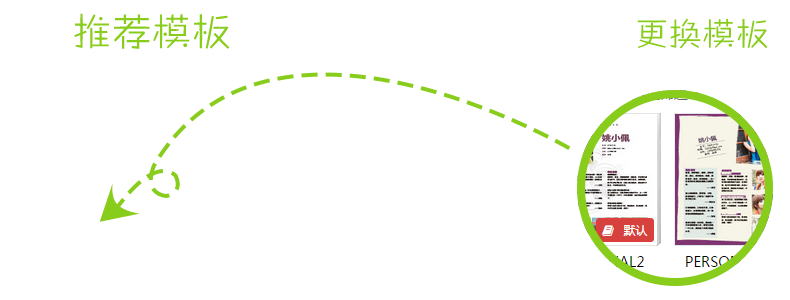
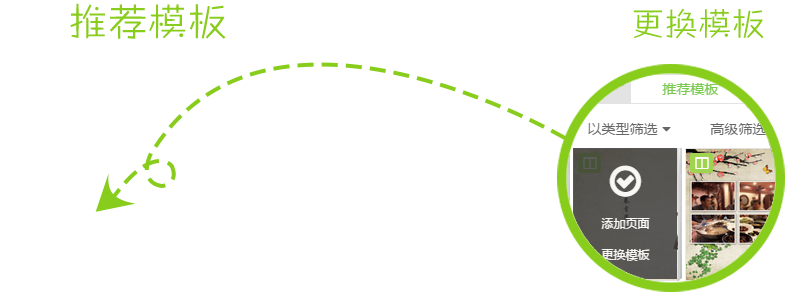
modify guide of change tpl tips

diff --git a/src/m/bp_main3.9.html b/src/m/bp_main3.9.html
@@ -22,118 +22,15 @@
 </head>
 
 <body>
-<div class='main_container bp_con_h'><!--竖屏class:bp_con_v has_footer_nav，横屏class:bp_con_h-->
-    <div class="bp_tpl_v">
+<div class='main_container bp_con_v'><!--竖屏class:bp_con_v has_footer_nav，横屏class:bp_con_h-->
+    <div class="bp_tpl">
         <div class="ybwechatheader_wrapper">
             <a class='left_btn back_btn' href="javascript:;"></a>
-            <p class="tips">提示：将手机横屏可进行全屏预览</p>
+            <p>
+                <span class="tips">提示：将手机横屏可进行全屏预览</span>
+                <span class="cur_page">1/33</span>
+            </p>
             <a class='right_btn share_btn' href="javascript:;"></a>
-        </div>
-        <div class="flipbook-viewport">
-            <div class='flipbook_wrapper' pagecount='19'>
-                <a class='flipbook_prevpage_btn' href="javascript:;"></a>
-
-                <div class='flipbook'>
-                    <div depth="5" class="hard" style="background-image:url('../img/pages/1.jpg');">
-                        <link href="http://yb-test-book.qiniudn.com/pageTpl/IMAGE_TEXT/37/css/small_left.css"
-                              rel="stylesheet" type="text/css">
-                        <div class="container_activity_37_small_left">
-                            <div class="page_header_container">
-                                <div slottype="article" class="warp1">
-                                    <div class="richShow" slottype="articleShow" textheight="40">
-                                        <div class="main_title" slottype="richText" slotnum="0">
-                                            雄关为头越
-                                        </div>
-                                    </div>
-                                </div>
-                            </div>
-                            <div class="photo0_container">
-                                <span id="imgMask0" imgwidth="1324" imgheight="907" slotnum="0" slottype="mask"
-                                      class="photoframe_common_property photoframe0"></span>
-                                <img slottype="img" slotnum="0" class="img0" src="">
-                            </div>
-                            <div class="photo1_container">
-                                <span id="imgMask1" imgwidth="498" imgheight="334" slotnum="1" slottype="mask"
-                                      class="photoframe_common_property photoframe1"></span>
-                                <img slottype="img" slotnum="1" class="img1" src="">
-                            </div>
-                            <div class="photo2_container">
-                                <span id="imgMask2" imgwidth="389" imgheight="261" slotnum="2" slottype="mask"
-                                      class="photoframe_common_property photoframe2"></span>
-                                <img slottype="img" slotnum="2" class="img2" src="">
-                            </div>
-                            <div class="content_container">
-                                <strong>
-                                    <div slottype="article" class="warp2">
-                                        <div class="richShow" slottype="articleShow" textheight="30">
-                                            <p></p>
-
-                                            <p slottype="richText" slotnum="2" style="min-height:30px;"
-                                               placeholder="活动标题" mode="inline"></p>
-
-                                            <p></p>
-                                        </div>
-                                    </div>
-                                </strong>
-
-                                <div slottype="article" class="warp3">
-                                    <div class="richShow" slottype="articleShow" textheight="96">
-                                        <p slottype="richText" slotnum="3" style="display:block;word-wrap:break-word;"
-                                           placeholder="活动内容"></p>
-                                    </div>
-                                </div>
-                            </div>
-                        </div>
-                    </div>
-                    <div depth="5" class="hard front-side secondcover even"
-                         style="background-image:url('../img/pages/2.jpg');">
-                        <span class="depth"></span>
-                        <link href="http://yb-test-book.qiniudn.com/pageTpl/PANO/2/css/small_left.css" rel="stylesheet"
-                              type="text/css">
-                        <div class="container_panoramic_02_small_left">
-                            <div slottype="article" class="warp">
-                                <div slottype="articleShow" textheight="62" class="richShow">
-                                    <p placeholder="学校班级.." slottype="richText" slotnum="4" mode="inline"
-                                       class="graduate-po">
-                                    </p>
-                                </div>
-                            </div>
-                            <span id="imgMask1" imgwidth="3120" imgheight="1700" slotnum="1" slottype="mask"
-                                  class="photoframe1"
-                                  style="text-align:center;vertical-align:middle;display: block;"></span>
-                            <img slottype="img" slotnum="1" src="" class="img1">
-                        </div>
-                    </div>
-                    <div class="hard fixed back-side thirdcover p19"
-                         style="background-image:url('../img/pages/tpl_small.jpg')">
-                        <span class="depth"></span>
-                        <link href="http://yb-test-book.qiniudn.com/pageTpl/PANO/2/css/small_right.css" rel="stylesheet"
-                              type="text/css">
-                        <div class="container_panoramic_02_small_right">
-                            <div slottype="article" class="warp">
-                                <div slottype="articleShow" textheight="62" class="richShow">
-                                    <p placeholder="学校班级.." slottype="richText" slotnum="4" mode="inline"
-                                       class="graduate-po">
-                                    </p>
-                                </div>
-                            </div>
-                            <span id="imgMask1" imgwidth="3120" imgheight="1700" slotnum="1" slottype="mask"
-                                  class="photoframe1"
-                                  style="text-align:center;vertical-align:middle;display: block;"></span>
-                            <img slottype="img" slotnum="1" src="" class="img1">
-                        </div>
-                    </div>
-                    <div class="hard p20" style="background-image:url('../img/pages/tpl_small.jpg')"></div>
-                </div>
-                <a class='flipbook_nextpage_btn' href="javascript:;"></a>
-            </div>
-        </div>
-    </div>
-    <div class="bp_tpl_h">
-        <div class="ybwechatheader_wrapper">
-            <a class='left_btn back_btn' href="javascript:;"></a>
-            <p><span>1/33</span></p>
-            <a class='right_btn' href="javascript:;">我要制作</a>
         </div>
         <div class="flipbook-viewport">
             <div class='flipbook_wrapper' pagecount='19'>
@@ -635,9 +532,9 @@
 
     window.addEventListener("orientationchange", function() {
         if(window.orientation){
-            $('.main_container').removeClass('bp_con_v','has_footer_nav').addClass('bp_con_h');
+            $('.main_container').removeClass('bp_con_v has_footer_nav').addClass('bp_con_h');
         }else{
-            $('.main_container').addClass('bp_con_v','has_footer_nav').removeClass('bp_con_h');
+            $('.main_container').addClass('bp_con_v has_footer_nav').removeClass('bp_con_h');
         }
     }, false);
 

diff --git a/src/css/m_bookpreview.css b/src/css/m_bookpreview.css
@@ -98,6 +98,7 @@
 /*~~~~~~~~~~yb 3.9 preview book~~~~~~~~~~*/
 .bp_con_v {
     position: relative;
+    padding-bottom: 70px;
 }
 
 .bp_con_v .ybwechatheader_wrapper {
@@ -111,37 +112,21 @@
     line-height: 48px;
 }
 
-.bp_tpl_v {
-    display: none;
-    position: relative;
-    top: 0;
-    left: 0;
-    width: 100%;
-    min-height: 263px;
-    background: url("../img/m/previewbook/pb_bg3-9.jpg") no-repeat center;
-    background-size: cover;
-    overflow: hidden;
-}
-
-.bp_con_v .bp_tpl_v{
-    display: block;
-}
-
-.bp_tpl_v .flipbook-viewport {
+.flipbook-viewport {
     margin: 10px auto 30px;
     width: 280px;
     height: 198px;
     overflow: visible;
 }
 
-.bp_tpl_v .flipbook_wrapper {
+.flipbook_wrapper {
     margin: 2% 0 0 0;
     height: 100%;
     position: relative;
     z-index: 1;
 }
 
-.bp_tpl_v .flipbook_wrapper > a {
+.flipbook_wrapper > a {
     display: block;
     width: 30px;
     height: 60px;
@@ -168,7 +153,7 @@
     background-size: 100% 100%;
 }
 
-.bp_tpl_v .flipbook-viewport .page > div, .bp_tpl .flipbook-viewport .page > div {
+.flipbook-viewport .page > div, .flipbook-viewport .page > div {
     -ms-zoom: 0.206;
     -webkit-transform: scale(0.206);
     -webkit-transform-origin: top left;
@@ -195,75 +180,6 @@
     background-color: #000;
     z-index: 2;
 }
-
-.bp_tpl_h {
-    display: none;
-    position: absolute;
-    top: 0;
-    left: 0;
-    width: 100%;
-    height: 100%;
-    background: url("../img/m/previewbook/pb_bg3-9.jpg") no-repeat center;
-    background-size: cover;
-    overflow: hidden;
-}
-
-.bp_con_h .bp_tpl_h{
-    display: block;
-}
-
-
-
-.bp_tpl_h .flipbook-viewport {
-    margin: 0 auto;
-    width: 280px;
-    height: 100%;
-    overflow: visible;
-}
-
-.bp_tpl_h .flipbook_wrapper {
-    margin: 0;
-    height: 100%;
-    position: relative;
-    z-index: 1;
-}
-
-.bp_tpl_h .flipbook_wrapper > a {
-    display: block;
-    width: 30px;
-    height: 60px;
-    background: rgba(255, 255, 255, .4) url("../img/m/previewbook/pb_lrarrow.png") no-repeat;
-    position: absolute;
-    top: 50%;
-    margin-top: -30px;
-    z-index: 1;
-}
-
-.flipbook-viewport .flipbook {
-    left: 0 !important;
-    overflow: hidden;
-}
-
-.flipbook_wrapper .flipbook .page-wrapper {
-    perspective: 3500px;
-    -webkit-perspective: 3500px;
-    -moz-perspective: 3500px;
-}
-
-.flipbook-viewport .page {
-    background-repeat: no-repeat;
-    background-size: 100% 100%;
-}
-
-.bp_tpl_h .flipbook-viewport .page > div{
-    -ms-zoom: 0.206;
-    -webkit-transform: scale(0.206);
-    -webkit-transform-origin: top left;
-    -moz-transform: scale(0.206);
-    -moz-transform-origin: top left;
-}
-
-
 
 .vsub {
     display: none;

diff --git a/src/makebook_chaptermake.html b/src/makebook_chaptermake.html
@@ -1034,6 +1034,12 @@
 				<div class="dash">
 					<div class="dash_92c153"></div>
 				</div>-->
+                <div class="ptpl_switch">
+                    <ul>
+                        <li><a id="used_ptpl_btn" href="javascript:;" class="active">已使用模板</a></li>
+                        <li><a id="recommend_ptpl_btn" class="" href="javascript:;">推荐模板</a></li>
+                    </ul>
+                </div>
 				<div class="filter">
 					<dl class="cm_fl">
 						<dt class="cm_cp">风格筛选<i class="icon-caret-down cm_ml_5"></i></dt>
@@ -2455,13 +2461,13 @@
 	<!--导航页 开始-->
 	<div id="overlay"></div>
 	<div class="guide_container add_page hidden">
-		<div class="" style="position: absolute;right:2%;top: 145px">
+		<div class="" style="position: absolute;right:2%;top: 180px">
 			<img src="img/guide/drag_guide.png">
 		</div>
 	</div>
     <!--列表模式下更换模板导航-->
     <div class="guide_container guide_changetpl hidden">
-        <div style="position: absolute;right:1%;top: 87px">
+        <div style="position: absolute;right:2%;top: 103px">
             <img src="img/guide/change_tpl_tips.png">
         </div>
     </div>
